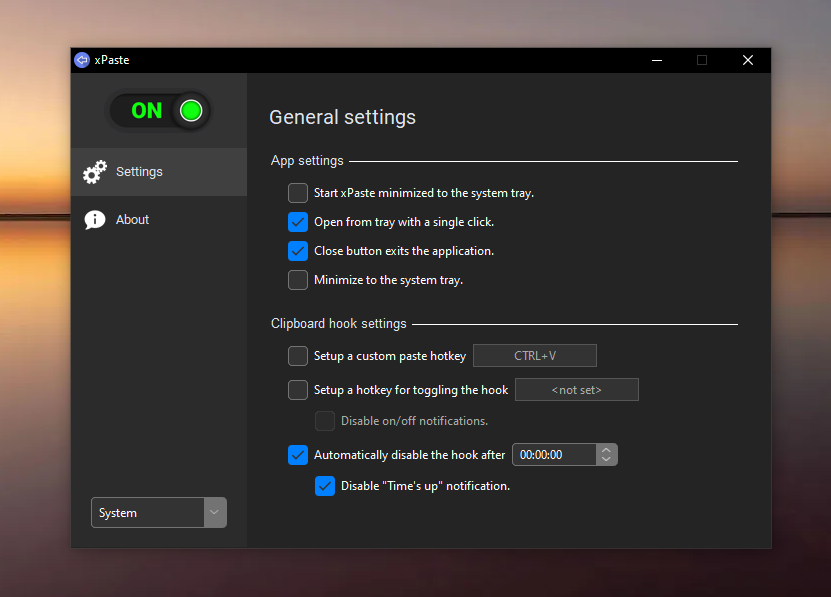
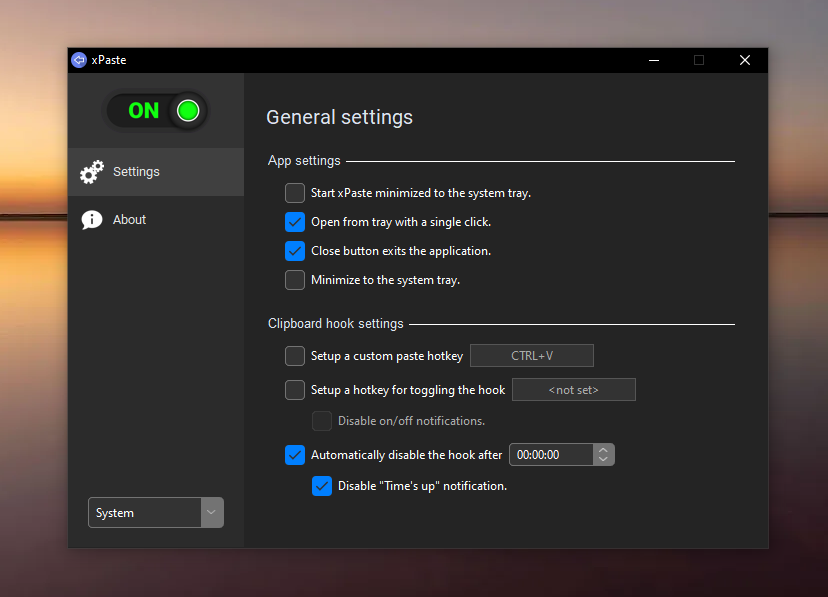
Readme and screenshot update

diff --git a/README.md b/README.md
@@ -1,1 +1,37 @@
 # xPaste
+
+<img src="https://github.com/diegojgb/xPaste/blob/main/screenshot.png" width="828" height="597">
+
+## What is it?
+
+xPaste is a simple application that allows you to bypass paste-blocking websites and applications by simulating keystrokes and typing the text from your clipboard.
+
+It is written in Python, using the Tkinter standard library for the GUI, and the [keyboard](https://github.com/boppreh/keyboard "https://github.com/boppreh/keyboard") module for the typing.
+
+## Installation
+
+- You can download the latest release from [here](https://github.com/diegojgb/xPaste/releases/latest "https://github.com/diegojgb/xPaste/releases/latest")
+- It is a standalone executable, just one file, that's it. It stores its settings in a 'config.ini' file within the same directory.
+
+## Usage
+1\. Open xPaste and make sure it's turned on.
+2\. Copy the text you want to paste.
+3\. Press CTRL+V (or your customized hotkey).
+4\. The text will be typed, with simulated keystrokes.
+
+It comes with a few settings you can play around with, nothing special.
+
+## Build from source
+
+If you want to build the application from the source code by yourself, just clone/download the repository, and build it with pyinstaller, using the xpaste.spec I included.
+
+1\. Install pyinstaller if you don't have it
+
+```
+pip install pyinstaller
+```
+
+2\. Run xpaste.spec with pyinstaller
+```
+pyinstaller xpaste.spec
+```
